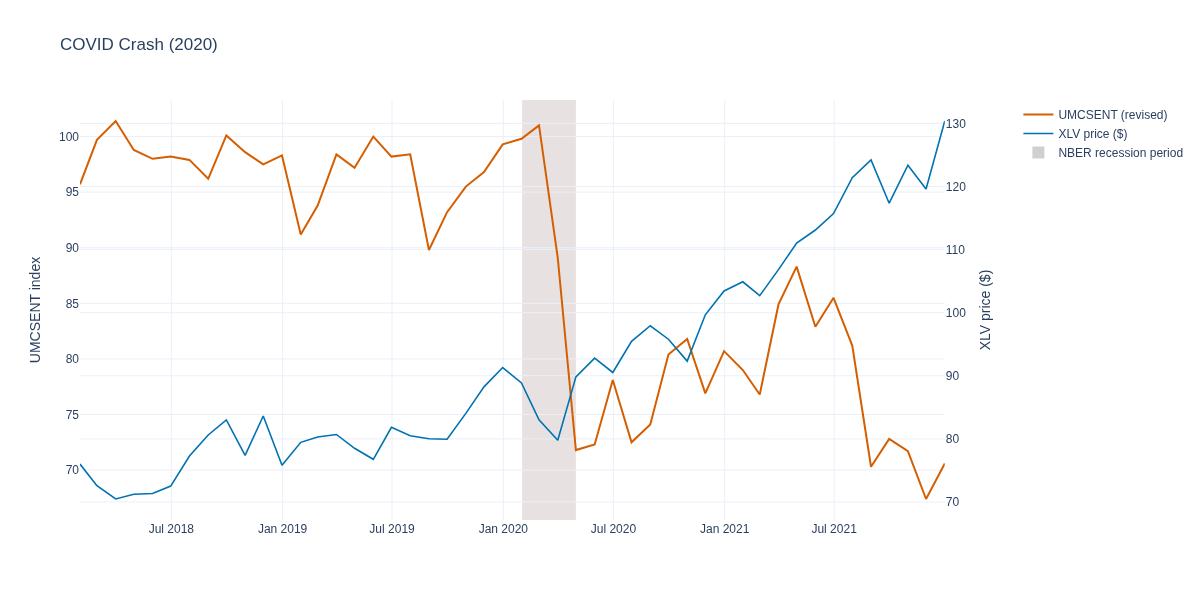
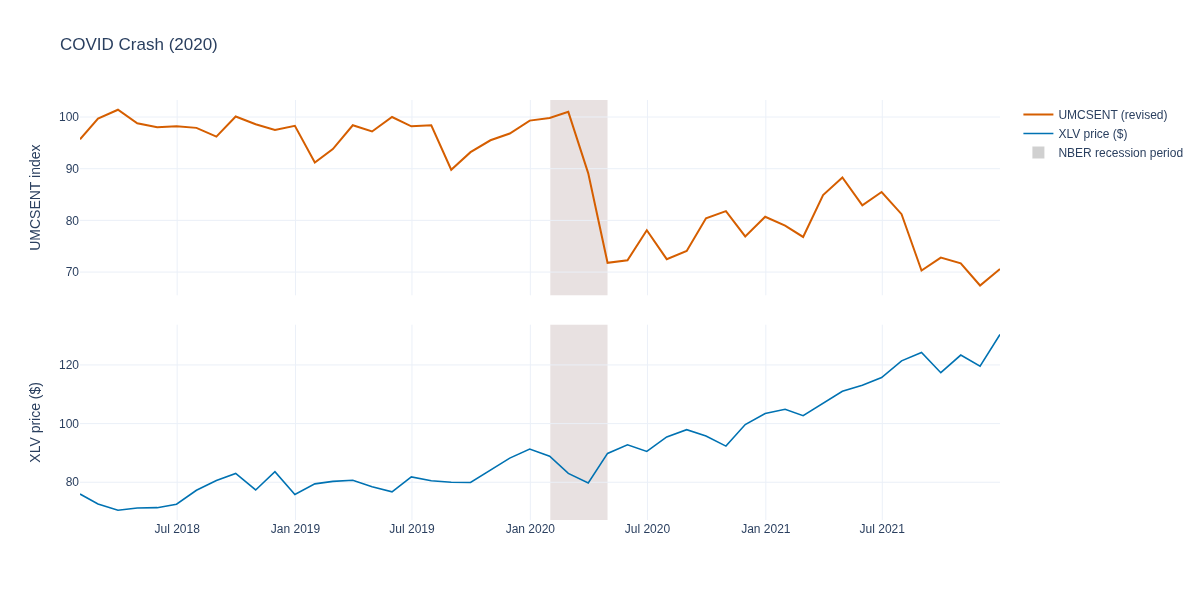
umcsent_xlv history zooms: stacked dual panels via harness zoom_dual_panel (VIZ-V1, GATE-DP1 v2)
Zoom charts and PNGs regenerated and zoom-read; GATE-DP1 preflight passes for umcsent_xlv.

Claude-Session: https://claude.ai/code/session_013QJi3cY4HgnCo3223v9q3m

diff --git a/scripts/generate_charts_umcsent_xlv.py b/scripts/generate_charts_umcsent_xlv.py
@@ -17,6 +17,9 @@ import numpy as np
 import pandas as pd
 import plotly.graph_objects as go
 import plotly.io as pio
+
+sys.path.insert(0, str(Path(__file__).resolve().parent))
+from harness.charts import zoom_dual_panel  # noqa: E402
 from plotly.subplots import make_subplots
 
 warnings.filterwarnings("ignore", category=FutureWarning)
@@ -750,6 +753,7 @@ def chart_history_zoom(slug, title, start, end):
     fig.update_layout(title=title, template="plotly_white", height=430, hovermode="x unified")
     fig.update_yaxes(title_text="UMCSENT index", secondary_y=False)
     fig.update_yaxes(title_text="XLV price ($)", secondary_y=True)
+    fig = zoom_dual_panel(fig)        # VIZ-V1 / GATE-DP1 v2: stacked panels, no overlaid y-axes
     save_chart(fig, f"history_zoom_{slug}", caption=f"{title}" + ("; gray bands are NBER recessions." if drawn else "."),
                sources=["data/umcsent_xlv_monthly_latest.parquet"])
 
